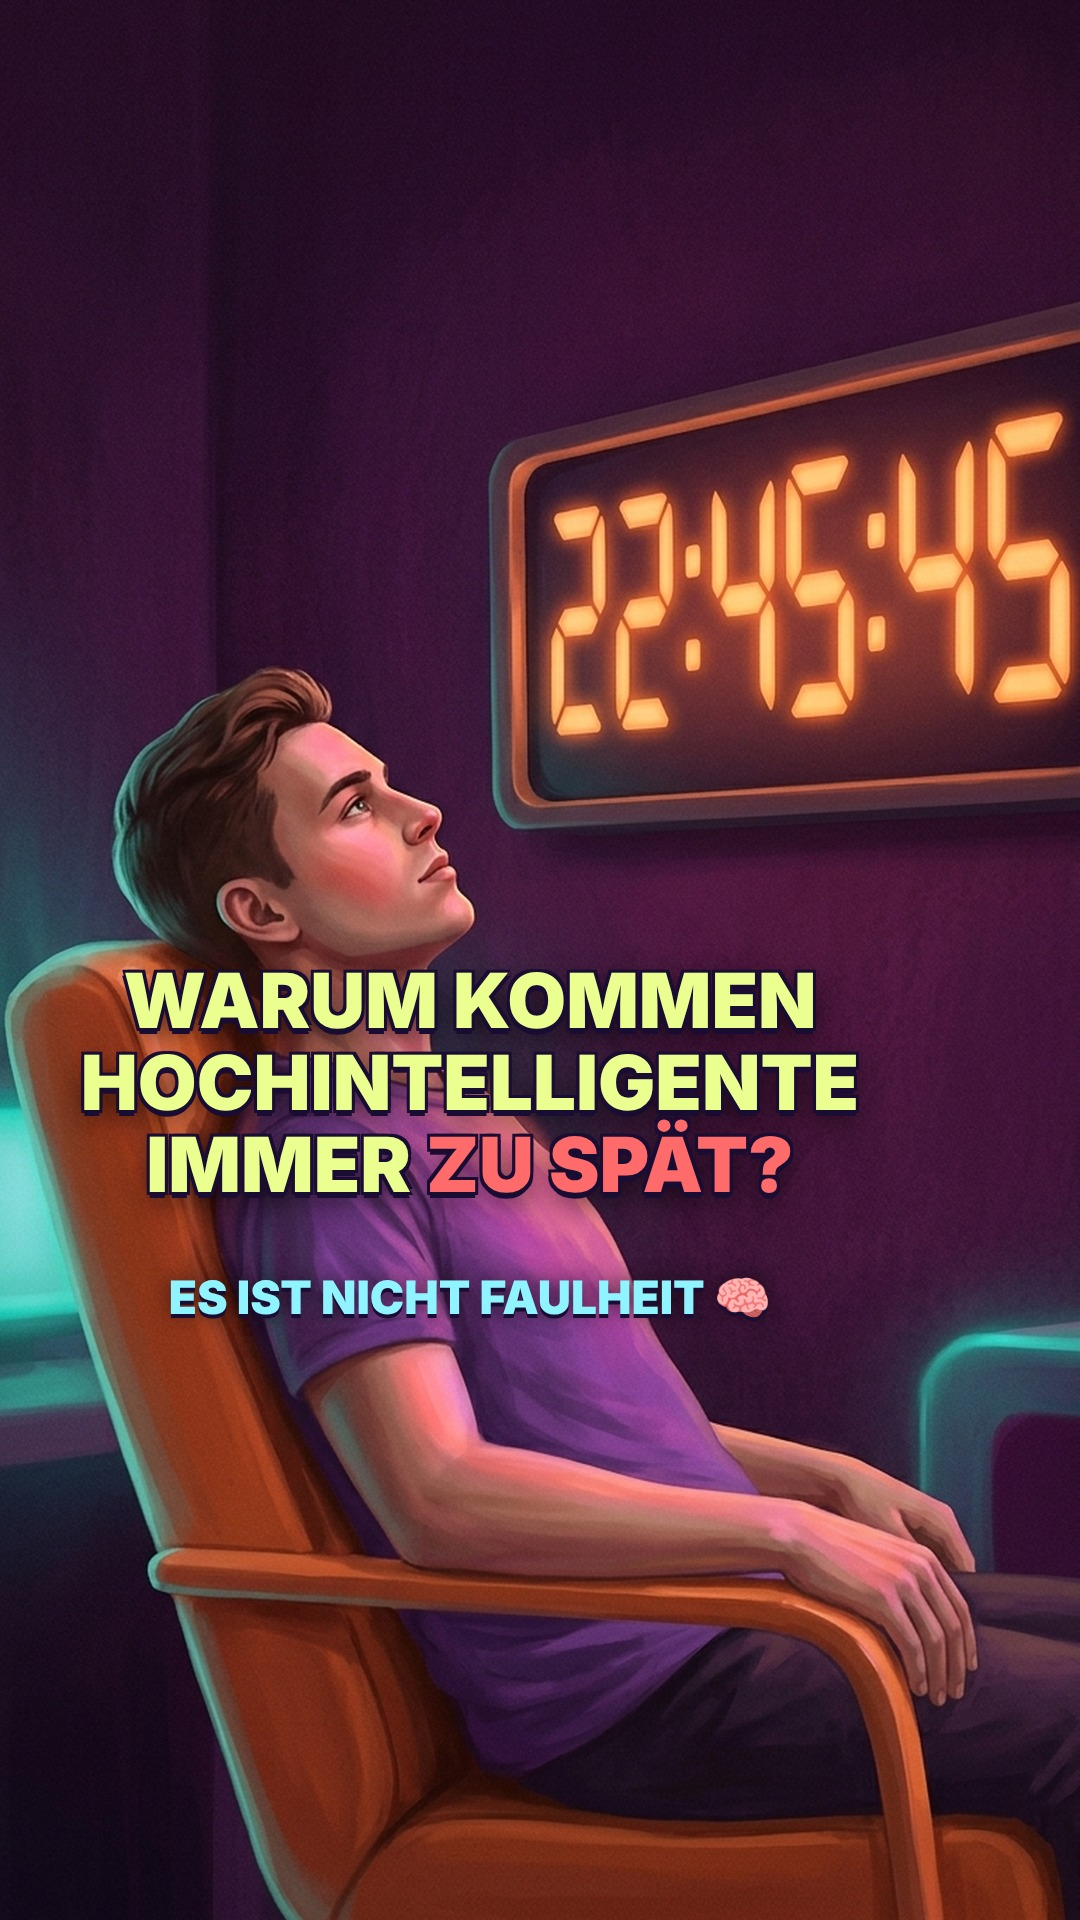
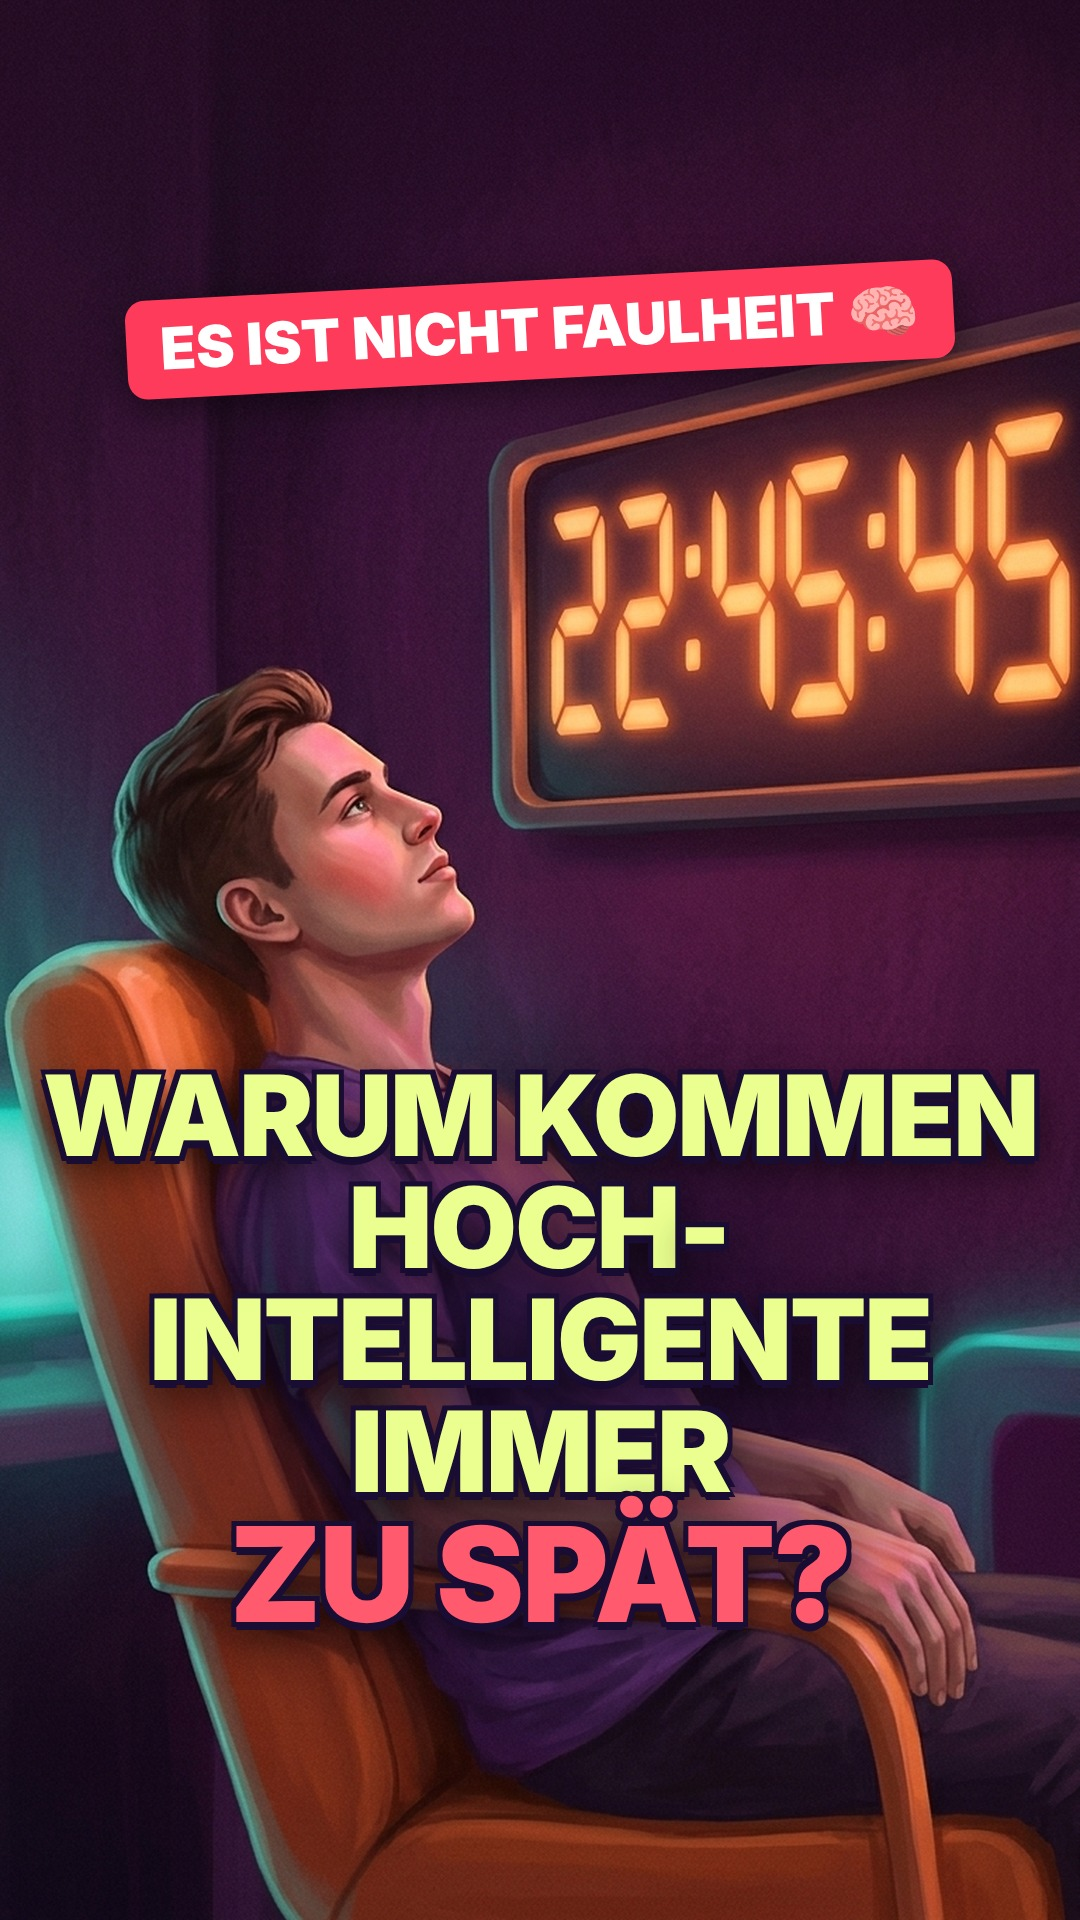
Zu spät: größeres Cover und virale Beschreibung in Du-Form
Claude-Session: https://claude.ai/code/session_01McNdgXtFA3X1Q1fLpDn8nE

Changed region(s): [[0.0306, 0.5, 0.9778, 0.875], [0.0917, 0.125, 0.8861, 0.2188]]

diff --git a/videos/zu-spaet/cover/index.html b/videos/zu-spaet/cover/index.html
@@ -8,15 +8,17 @@
       html, body { width: 1080px; height: 1920px; overflow: hidden; background: #2a1158; }
       #root { position: relative; width: 100%; height: 100%; overflow: hidden; background: url("bg.png") center / cover; }
       .abs { position: absolute; }
-      #t { left: 60px; width: 820px; top: 960px; text-align: center; font: 900 76px/1.08 Inter, sans-serif; color: #eaff8f;
-        text-shadow: 3px 3px 0 #1a0d33, -3px -3px 0 #1a0d33, 3px -3px 0 #1a0d33, -3px 3px 0 #1a0d33, 0 6px 0 #1a0d33, 0 12px 30px rgba(0,0,0,.7); }
-      #t b { color: #ff6b6b; }
-      #s { left: 60px; width: 820px; top: 1270px; text-align: center; font: 900 46px Inter, sans-serif; color: #8ff4ff; text-shadow: 0 4px 0 #1a0d33, 0 0 20px rgba(0,0,0,.6); }
+      #t { left: 20px; width: 1040px; top: 1060px; text-align: center; font: 900 112px/1.0 Inter, sans-serif; letter-spacing: -.02em; color: #eaff8f;
+        text-shadow: 5px 5px 0 #1a0d33, -5px -5px 0 #1a0d33, 5px -5px 0 #1a0d33, -5px 5px 0 #1a0d33, 0 8px 0 #1a0d33, 0 16px 40px rgba(0,0,0,.8); }
+      #t b { color: #ff5a6e; font-size: 132px; }
+      #s { left: 0; right: 0; margin: 0 auto; top: 280px; width: fit-content; padding: 14px 34px; border-radius: 20px; background: #ff3b5c; color: #fff; font: 900 58px Inter, sans-serif; box-shadow: 0 10px 40px rgba(0,0,0,.5); transform: rotate(-3deg); }
+      #shade { left: 0; top: 960px; width: 1080px; height: 800px; background: radial-gradient(ellipse at 50% 50%, rgba(20,8,40,.75), rgba(20,8,40,0) 70%); }
     </style>
   </head>
   <body>
     <div id="root" data-composition-id="cover" data-start="0" data-duration="1" data-width="1080" data-height="1920" data-no-timeline>
-      <div id="t" class="abs">WARUM KOMMEN<br>HOCHINTELLIGENTE<br>IMMER <b>ZU SPÄT?</b></div>
+      <div id="shade" class="abs"></div>
+      <div id="t" class="abs">WARUM KOMMEN<br>HOCH&shy;INTELLIGENTE<br>IMMER<br><b>ZU SPÄT?</b></div>
       <div id="s" class="abs">ES IST NICHT FAULHEIT 🧠</div>
     </div>
   </body>

diff --git a/videos/zu-spaet/BESCHREIBUNG.md b/videos/zu-spaet/BESCHREIBUNG.md
@@ -1,29 +1,36 @@
 # Beschreibung – Warum kommen hochintelligente Menschen immer zu spät?
 
 ## Hauptversion (empfohlen)
-Warum kommen hochintelligente Menschen IMMER zu spät? 🧠⏰ Es ist nicht Faulheit – es ist ihr Gehirn. Planungsfehlschluss, Flow und eine Minute, die 77 Sekunden dauert 🤯 Bist du auch immer genau 5 Minuten zu spät? 👇
-#psychologie #wissen #gehirn #zuspät #fyp
+Du kommst IMMER zu spät? Vielleicht bist du einfach zu intelligent 🧠⏰ Es ist nicht Faulheit – es ist dein Gehirn. Bis zum Ende schauen, Punkt 5 trifft fast jeden 👀 Wie viele Minuten bist DU im Schnitt zu spät? 👇
+#psychologie #gehirn #zuspät #wissen #fyp
 
-## Alternative 1 (Ertappt-Hook)
-„Ich hab noch Zeit.“ – *macht noch schnell eine Sache* – zu spät 😅 Die Psychologie dahinter ist verrückter als gedacht 🧠 Markier die Person, die IMMER zu spät kommt 👇
-#psychologie #zuspät #relatable #wissen #fyp
+## Alternative 1 (Markier-Hook, pusht Shares)
+Markier die Person, die IMMER genau 5 Minuten zu spät kommt 😅⏰ Die Wissenschaft hat endlich eine Ausrede für sie 🧠 Spoiler: Eine Minute dauert für manche 77 Sekunden 🤯 👇
+#zuspät #psychologie #relatable #wissen #fyp
 
-## Alternative 2 (Studien-Hook)
-Studenten schätzten 34 Tage für ihre Abschlussarbeit. Gebraucht haben sie 55 📊 Das hat einen Namen: Planungsfehlschluss. Und hochintelligente Menschen trifft es besonders oft 🧠 👇
-#psychologie #studie #wissen #lernenmittiktok #fyp
+## Alternative 2 (Ertappt-Hook)
+„Ich hab noch Zeit“ … *macht noch schnell eine Sache* … zu spät 💀 Wenn du dich erkennst: Das hat einen Namen – und es hat mit Intelligenz zu tun 🧠 👇
+#psychologie #zuspät #lernenmittiktok #gehirn #fyp
+
+## Alternative 3 (Studien-Hook)
+Studenten schätzten 34 Tage für ihre Abschlussarbeit. Gebraucht haben sie 55 📊 Der Planungsfehlschluss trifft gerade kluge Köpfe 🧠 Und du – wie lange brauchst du WIRKLICH zum Duschen? 🚿 👇
+#psychologie #studie #wissen #zuspät #fyp
 
 ## Angepinnter Kommentar
-Ehrlich: Wie viele Minuten kommst DU im Schnitt zu spät? ⏰ Und wenn du hochintelligent bist … warum folgst du mir noch nicht? 😏👇
+Ehrliche Umfrage ⏰ Wie viele Minuten kommst DU im Schnitt zu spät? 0⃣ / 5⃣ / 1⃣5⃣ / 3⃣0⃣+ 👇 Und wenn du hochintelligent bist … warum folgst du mir noch nicht? 😏
 
 ## Antwort-Vorlagen für Kommentare
 - „Der Trick aus dem Video: immer ein Drittel mehr Zeit einplanen. Klingt simpel – funktioniert 😉“
 - „Planungsfehlschluss ist echt: Buehler, Griffin & Ross (1994) – geschätzt 34 Tage, gebraucht 55.“
+- „5 Minuten zu spät ist offiziell die Einheit für Genies 😂“
 
-## Posting-Tipps
-- Heute Abend 18:30–20:30 Uhr posten.
-- Cover: `renders/cover.jpg` (Digitaluhr 22:45:45 + Titelfrage im sicheren Bereich).
-- Ruhiger Lo-Fi/Mystery-Sound leise darunter (10–20 %), die Stimme bleibt vorne.
-- In der ersten Stunde Kommentare mit Minutenangaben beantworten; Markier-Aufforderung pusht Shares.
+## Posting-Tipps für schnelle Reichweite
+- Posten 18:30–20:30 Uhr (werktags) oder Sonntag 11–13 Uhr.
+- Cover: `renders/cover.jpg` (großer Titel unten im sichtbaren 3:4-Bereich, „ES IST NICHT FAULHEIT“ oben).
+- Lo-Fi/Mystery-Trend-Sound leise darunter (10–20 %), die Stimme bleibt vorne.
+- Umfrage-Kommentar sofort anpinnen; in der ersten Stunde jeden Kommentar beantworten.
+- Markier-Version (Alternative 1) bringt die meisten Shares – ideal, wenn du nur eine nimmst und Shares willst.
+- Nach 24 Std.: Duett/Stitch-Aufruf „Wie spät warst du heute?“ als Kommentar pinnen.
 
 ---
 Fakten: Planungsfehlschluss (Kahneman & Tversky); Buehler, Griffin & Ross 1994 (Abschlussarbeit geschätzt ~34, tatsächlich ~55 Tage); Conte et al. 2003, San Diego State University (für manche Personen fühlte sich eine Minute erst nach ~77 s vorbei an); Flow verändert das Zeitempfinden (Csikszentmihalyi). Zu spät kommen ist kein Intelligenzbeweis.
